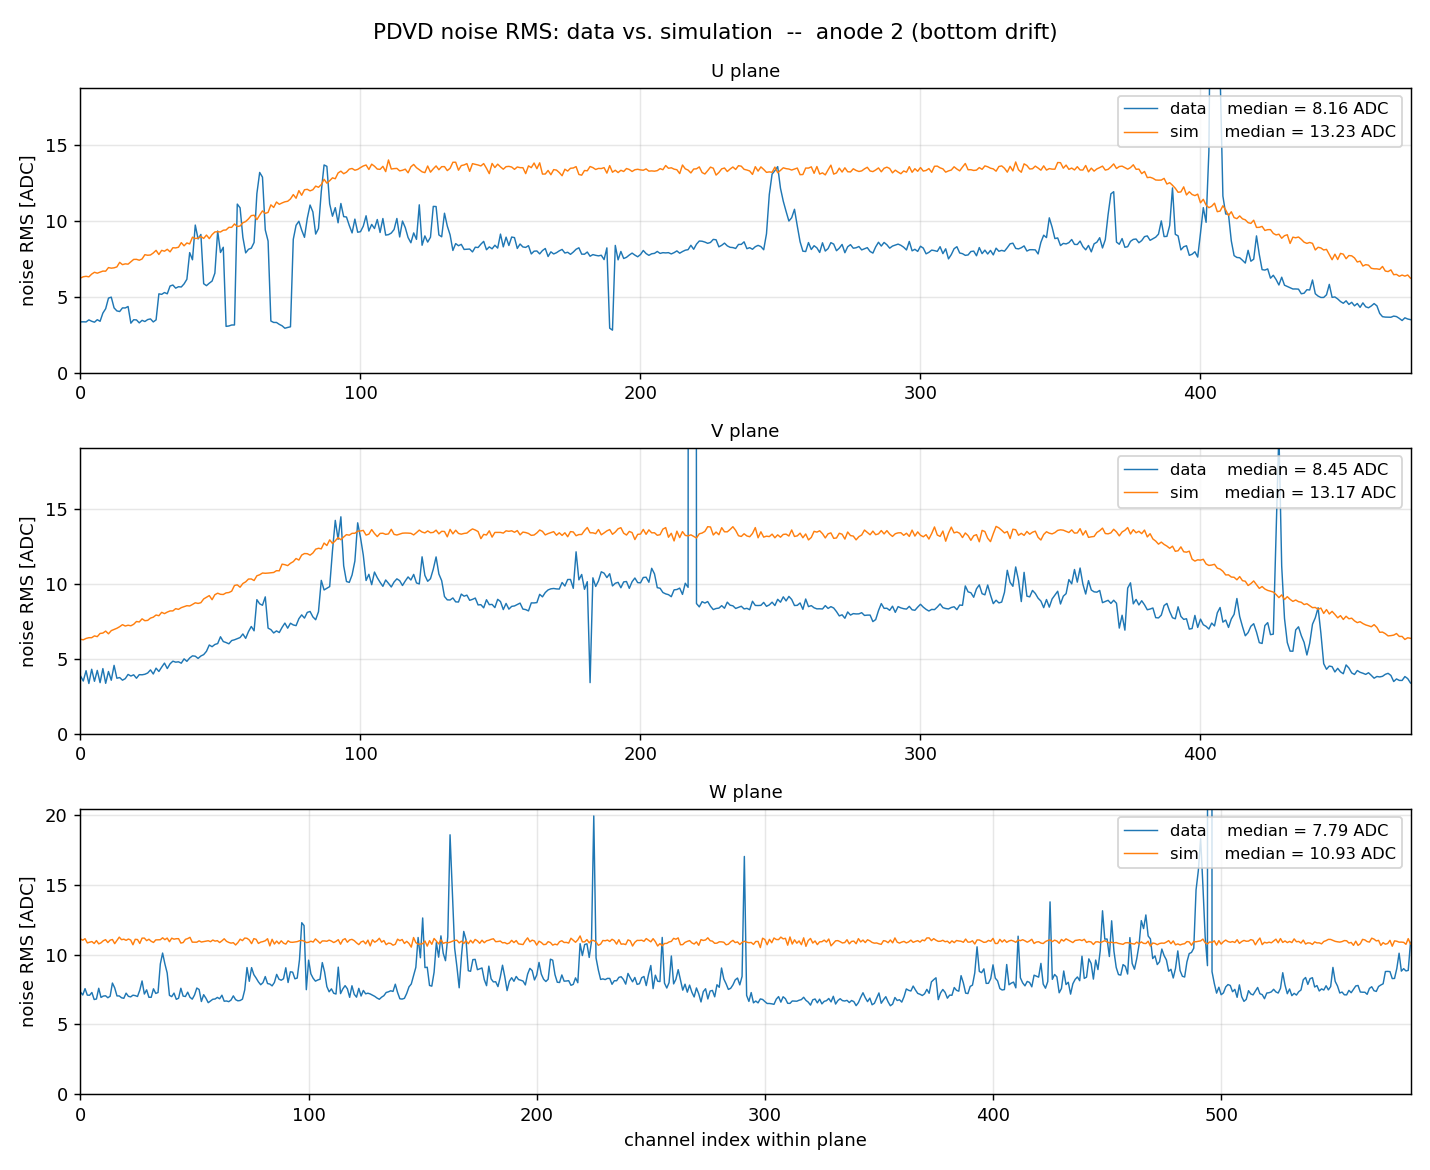
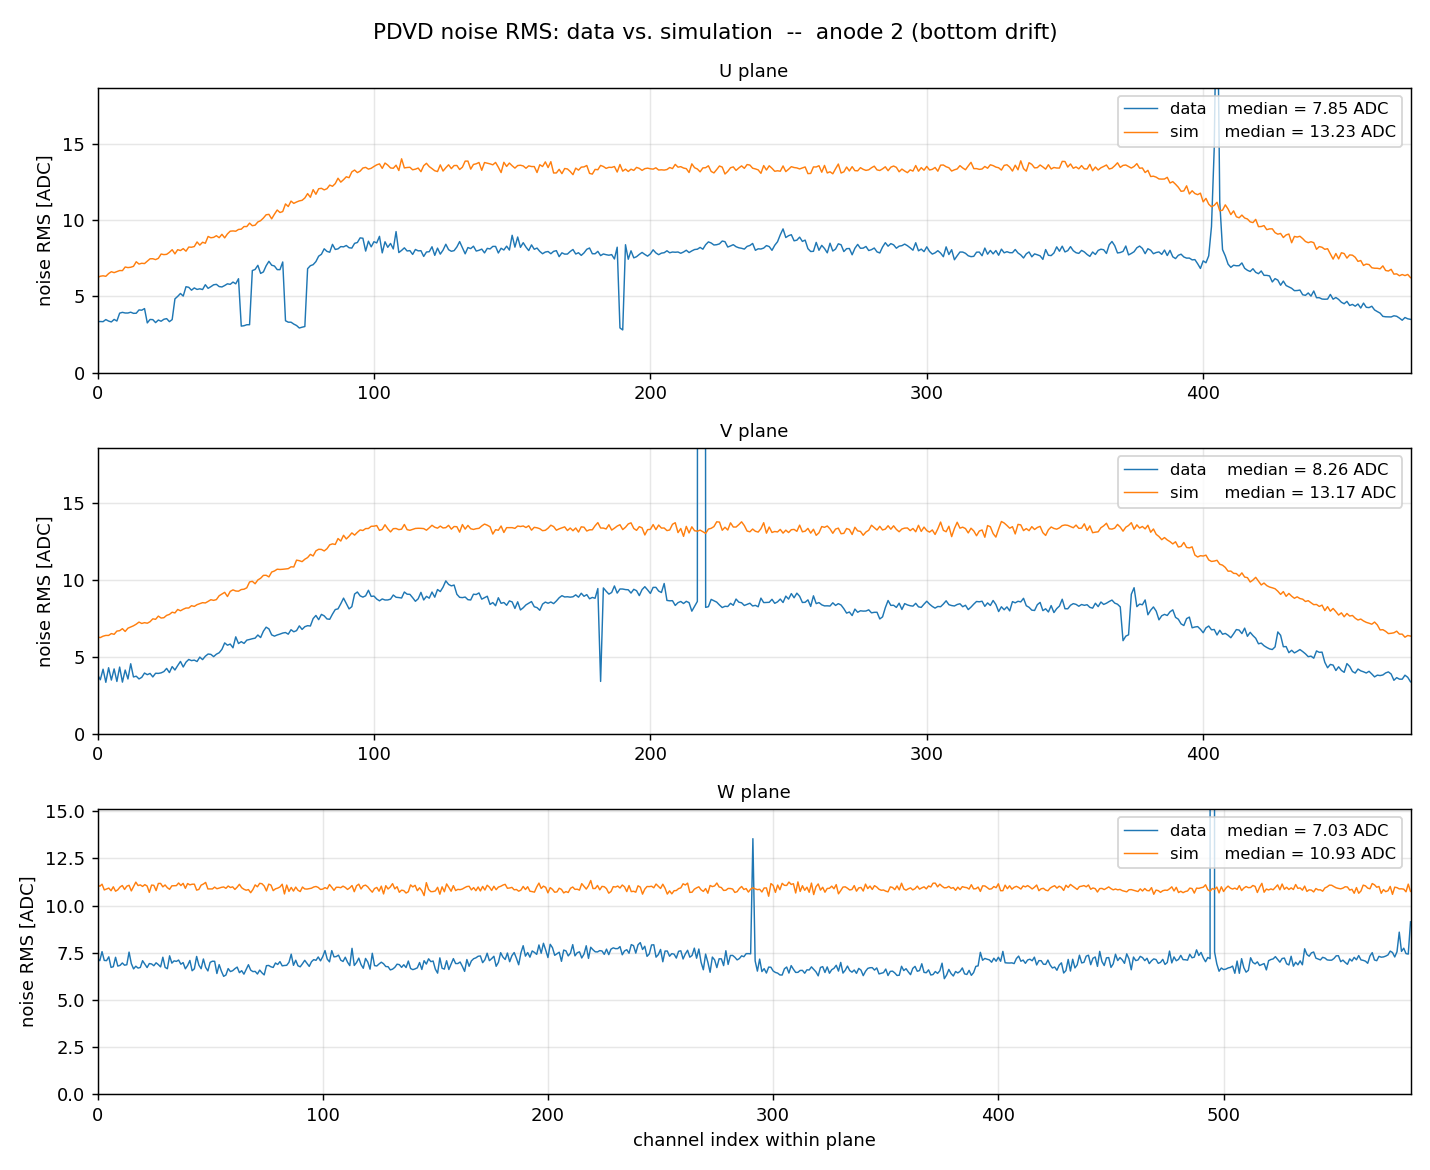
refine: iterate the 4.5-sigma clip in PDVD noise-RMS extraction
sigproc Derivations::CalcRMS is a single 4.5-sigma clip pass. On
channels carrying signal a single pass leaves a residual bias; iterate
the clip to convergence so signal samples are fully excluded.

PDVD event 0 has low channel occupancy, so this shifts the numbers only
a few percent (top-plane data median ~13.5 -> ~12.8 ADC) and changes no
conclusion. Done so the companion PDHD study -- whose event 0 is busier,
where a single pass over-reads by up to ~25% -- can use the same
signal-robust method.

diff --git a/pdvd/nf_plot/noise_rms_compare.py b/pdvd/nf_plot/noise_rms_compare.py
@@ -130,10 +130,11 @@ def write_md(data, sim):
       '(`pdvd_sim/wct-sim-noise-only.jsonnet`): `EmpiricalNoiseModel` + '
       '`AddNoise` + `Digitizer`, configuration taken verbatim from '
       '`cfg/pgrapher/experiment/protodunevd/sim.jsonnet`.')
-    A('- **Noise RMS**: per channel, replicating WireCell sigproc '
-      '`Derivations::CalcRMS` (`sigproc/src/Derivations.cxx`) — a one-pass '
-      '4.5σ clip that excludes signal samples, then the population RMS of the '
-      'rest. Measured on the raw ADC waveform, before noise filtering.')
+    A('- **Noise RMS**: per channel, the WireCell sigproc '
+      '`Derivations::CalcRMS` 4.5σ clip (`sigproc/src/Derivations.cxx`), '
+      'iterated to convergence so signal samples are excluded, then the '
+      'population RMS of the rest. Measured on the raw ADC waveform, before '
+      'noise filtering.')
     A('- Anodes 0-3 are the **bottom** drift volume, 4-7 the **top**.')
     A('')
     A('## Result — the simulation is NOT consistent with data')
@@ -153,8 +154,8 @@ def write_md(data, sim):
       'In simulation it is the opposite — the bottom is noisier than the top '
       '(bottom ≈ 11-13 ADC vs top ≈ 8.5-9 ADC).')
     A('2. **Both regions are mis-normalised.** The simulation **overestimates '
-      'bottom** noise by roughly 1.6-1.8× and **underestimates top** noise by '
-      'roughly 0.65×.')
+      'bottom** noise by roughly 1.5-1.8× and **underestimates top** noise by '
+      'roughly 0.7×.')
     A('')
     A('### Voltage-equivalent view')
     A('')
@@ -211,10 +212,9 @@ def write_md(data, sim):
       'top) is apples-to-apples. The top-vs-bottom comparison instead folds in '
       'the different LSB — hence the mV columns.')
     A('- **Residual signal in data**: event 0 is a real triggered event. The '
-      'one-pass `CalcRMS` clip leaves a small (~5-10%) residual-signal bias on '
-      'the busier (top) planes; a 3-pass iterative clip cross-check gave '
-      'data top U/V/W ≈ 12.8/12.9/13.0 ADC vs the 14.2/13.2/13.8 reported '
-      'here. This does not change any conclusion.')
+      '4.5σ clip is iterated to convergence so signal samples are excluded; '
+      'PDVD event 0 has low channel occupancy, so a single clip pass and the '
+      'converged result agree to within a few percent.')
     A('- **Tick period**: data is 512 ns/tick (native, pre-resampler), sim is '
       '500 ns/tick. This is a sub-1% effect on ADC-count RMS and is not '
       'corrected.')

diff --git a/pdvd/nf_plot/noise_rms.py b/pdvd/nf_plot/noise_rms.py
@@ -7,8 +7,8 @@ anodes, from raw pre-NF ADC frames.  Works on both real data and the
 noise-only simulation -- the `protodune-orig-frames` (data) and
 `pdvd-noise-sim` (sim) tar.bz2 archives share the same layout.
 
-Noise RMS method -- replicates WireCell sigproc Derivations::CalcRMS
-(sigproc/src/Derivations.cxx:7-20): one-pass 4.5-sigma clip that excludes
+Noise RMS method -- the WireCell sigproc Derivations::CalcRMS 4.5-sigma clip
+(sigproc/src/Derivations.cxx:7-20), iterated to convergence to fully exclude
 signal samples, then the population RMS of the remaining (noise) samples.
 
 Usage:
@@ -75,17 +75,21 @@ def split_planes(frame, channels):
 
 
 def calc_rms(wave):
-    """Per-channel noise RMS -- replicates sigproc Derivations::CalcRMS:
-    one-pass 4.5-sigma clip to drop signal, population std of the rest.
-    np.std default ddof=0 matches WireCell Waveform::mean_rms."""
+    """Per-channel noise RMS -- the WireCell sigproc Derivations::CalcRMS
+    4.5-sigma clip (sigproc/src/Derivations.cxx:7-20), iterated until the
+    surviving-sample set converges so signal samples are fully excluded.
+    A single pass leaves a residual signal bias on busy channels; iterating
+    to convergence removes it. np.std (ddof=0) matches WCT Waveform::mean_rms."""
     w = wave.astype(np.float64)
-    mean, rms = w.mean(), w.std()
-    if rms == 0:
-        return 0.0
-    sub = w[np.abs(w - mean) < SIGMA * rms]
-    if sub.size < 2:
-        return float(rms)
-    return float(sub.std())
+    for _ in range(10):
+        mean, rms = w.mean(), w.std()
+        if rms == 0:
+            break
+        sub = w[np.abs(w - mean) < SIGMA * rms]
+        if sub.size < 2 or sub.size == w.size:
+            break
+        w = sub
+    return float(w.std())
 
 
 def extract(src):

diff --git a/pdvd/nf_plot/noise_rms_comparison.md b/pdvd/nf_plot/noise_rms_comparison.md
@@ -10,7 +10,7 @@ Is the PDVD electronics-noise simulation consistent with data?
 
 - **Data**: PDVD `run039324`, event 0 — raw pre-NF ADC frames (`protodune-orig-frames-anode{0-7}.tar.bz2`), all 8 anodes.
 - **Simulation**: noise-only run of the production noise chain (`pdvd_sim/wct-sim-noise-only.jsonnet`): `EmpiricalNoiseModel` + `AddNoise` + `Digitizer`, configuration taken verbatim from `cfg/pgrapher/experiment/protodunevd/sim.jsonnet`.
-- **Noise RMS**: per channel, replicating WireCell sigproc `Derivations::CalcRMS` (`sigproc/src/Derivations.cxx`) — a one-pass 4.5σ clip that excludes signal samples, then the population RMS of the rest. Measured on the raw ADC waveform, before noise filtering.
+- **Noise RMS**: per channel, the WireCell sigproc `Derivations::CalcRMS` 4.5σ clip (`sigproc/src/Derivations.cxx`), iterated to convergence so signal samples are excluded, then the population RMS of the rest. Measured on the raw ADC waveform, before noise filtering.
 - Anodes 0-3 are the **bottom** drift volume, 4-7 the **top**.
 
 ## Result — the simulation is NOT consistent with data
@@ -19,17 +19,17 @@ Median noise RMS over all channels of each drift volume / plane:
 
 | region | plane | data [ADC] | sim [ADC] | sim/data | data [mV] | sim [mV] |
 |--------|-------|-----------:|----------:|---------:|----------:|---------:|
-| bottom | U | 7.88 | 13.21 | 1.68 | 0.674 | 1.129 |
-| bottom | V | 8.17 | 13.19 | 1.62 | 0.698 | 1.127 |
-| bottom | W | 7.30 | 10.97 | 1.50 | 0.624 | 0.937 |
-| top | U | 13.42 | 9.11 | 0.68 | 1.638 | 1.112 |
-| top | V | 12.91 | 9.11 | 0.71 | 1.576 | 1.112 |
-| top | W | 13.21 | 8.55 | 0.65 | 1.613 | 1.044 |
+| bottom | U | 7.64 | 13.21 | 1.73 | 0.653 | 1.129 |
+| bottom | V | 8.03 | 13.19 | 1.64 | 0.686 | 1.127 |
+| bottom | W | 6.91 | 10.97 | 1.59 | 0.591 | 0.937 |
+| top | U | 12.81 | 9.11 | 0.71 | 1.564 | 1.112 |
+| top | V | 12.53 | 9.11 | 0.73 | 1.530 | 1.112 |
+| top | W | 12.60 | 8.55 | 0.68 | 1.539 | 1.044 |
 
 Two clear failures:
 
 1. **The top/bottom ordering is inverted.** In data the top drift volume is markedly noisier than the bottom (top ≈ 13 ADC vs bottom ≈ 7-8 ADC). In simulation it is the opposite — the bottom is noisier than the top (bottom ≈ 11-13 ADC vs top ≈ 8.5-9 ADC).
-2. **Both regions are mis-normalised.** The simulation **overestimates bottom** noise by roughly 1.6-1.8× and **underestimates top** noise by roughly 0.65×.
+2. **Both regions are mis-normalised.** The simulation **overestimates bottom** noise by roughly 1.5-1.8× and **underestimates top** noise by roughly 0.7×.
 
 ### Voltage-equivalent view
 
@@ -87,35 +87,35 @@ Per-source overviews (all 8 anodes overlaid):
 
 | anode | region | plane | data [ADC] | sim [ADC] | sim/data |
 |------:|--------|-------|-----------:|----------:|---------:|
-| 0 | bottom | U | 7.38 | 13.20 | 1.79 |
-| 0 | bottom | V | 7.99 | 13.21 | 1.65 |
-| 0 | bottom | W | 6.80 | 10.97 | 1.61 |
-| 1 | bottom | U | 7.80 | 13.25 | 1.70 |
-| 1 | bottom | V | 8.08 | 13.18 | 1.63 |
-| 1 | bottom | W | 6.79 | 10.99 | 1.62 |
-| 2 | bottom | U | 8.16 | 13.23 | 1.62 |
-| 2 | bottom | V | 8.45 | 13.17 | 1.56 |
-| 2 | bottom | W | 7.79 | 10.93 | 1.40 |
-| 3 | bottom | U | 8.29 | 13.16 | 1.59 |
-| 3 | bottom | V | 8.56 | 13.21 | 1.54 |
-| 3 | bottom | W | 7.63 | 10.97 | 1.44 |
-| 4 | top | U | 14.21 | 9.14 | 0.64 |
-| 4 | top | V | 13.16 | 9.08 | 0.69 |
-| 4 | top | W | 13.79 | 8.53 | 0.62 |
-| 5 | top | U | 13.59 | 9.08 | 0.67 |
-| 5 | top | V | 13.09 | 9.12 | 0.70 |
-| 5 | top | W | 13.15 | 8.57 | 0.65 |
-| 6 | top | U | 12.96 | 9.11 | 0.70 |
-| 6 | top | V | 12.72 | 9.11 | 0.72 |
-| 6 | top | W | 12.78 | 8.57 | 0.67 |
-| 7 | top | U | 13.34 | 9.10 | 0.68 |
-| 7 | top | V | 12.71 | 9.12 | 0.72 |
-| 7 | top | W | 13.23 | 8.53 | 0.64 |
+| 0 | bottom | U | 7.30 | 13.20 | 1.81 |
+| 0 | bottom | V | 7.83 | 13.21 | 1.69 |
+| 0 | bottom | W | 6.60 | 10.97 | 1.66 |
+| 1 | bottom | U | 7.66 | 13.25 | 1.73 |
+| 1 | bottom | V | 7.94 | 13.18 | 1.66 |
+| 1 | bottom | W | 6.66 | 10.99 | 1.65 |
+| 2 | bottom | U | 7.85 | 13.23 | 1.69 |
+| 2 | bottom | V | 8.26 | 13.17 | 1.60 |
+| 2 | bottom | W | 7.03 | 10.93 | 1.56 |
+| 3 | bottom | U | 7.92 | 13.16 | 1.66 |
+| 3 | bottom | V | 8.46 | 13.21 | 1.56 |
+| 3 | bottom | W | 7.26 | 10.97 | 1.51 |
+| 4 | top | U | 12.79 | 9.14 | 0.71 |
+| 4 | top | V | 12.87 | 9.08 | 0.71 |
+| 4 | top | W | 12.95 | 8.53 | 0.66 |
+| 5 | top | U | 13.18 | 9.08 | 0.69 |
+| 5 | top | V | 12.70 | 9.12 | 0.72 |
+| 5 | top | W | 12.76 | 8.57 | 0.67 |
+| 6 | top | U | 12.76 | 9.11 | 0.71 |
+| 6 | top | V | 12.44 | 9.11 | 0.73 |
+| 6 | top | W | 12.33 | 8.57 | 0.70 |
+| 7 | top | U | 12.79 | 9.10 | 0.71 |
+| 7 | top | V | 12.27 | 9.12 | 0.74 |
+| 7 | top | W | 12.49 | 8.53 | 0.68 |
 
 ## Caveats
 
 - **Per-region comparison is valid**: data and sim use the same ADC scale within a drift volume, so data-vs-sim within bottom (or within top) is apples-to-apples. The top-vs-bottom comparison instead folds in the different LSB — hence the mV columns.
-- **Residual signal in data**: event 0 is a real triggered event. The one-pass `CalcRMS` clip leaves a small (~5-10%) residual-signal bias on the busier (top) planes; a 3-pass iterative clip cross-check gave data top U/V/W ≈ 12.8/12.9/13.0 ADC vs the 14.2/13.2/13.8 reported here. This does not change any conclusion.
+- **Residual signal in data**: event 0 is a real triggered event. The 4.5σ clip is iterated to convergence so signal samples are excluded; PDVD event 0 has low channel occupancy, so a single clip pass and the converged result agree to within a few percent.
 - **Tick period**: data is 512 ns/tick (native, pre-resampler), sim is 500 ns/tick. This is a sub-1% effect on ADC-count RMS and is not corrected.
 - The simulation was run with `nticks = 10000`; data frames have 6250 (bottom) / 6400 (top) ticks — ample statistics for a per-channel RMS in both cases.
 
